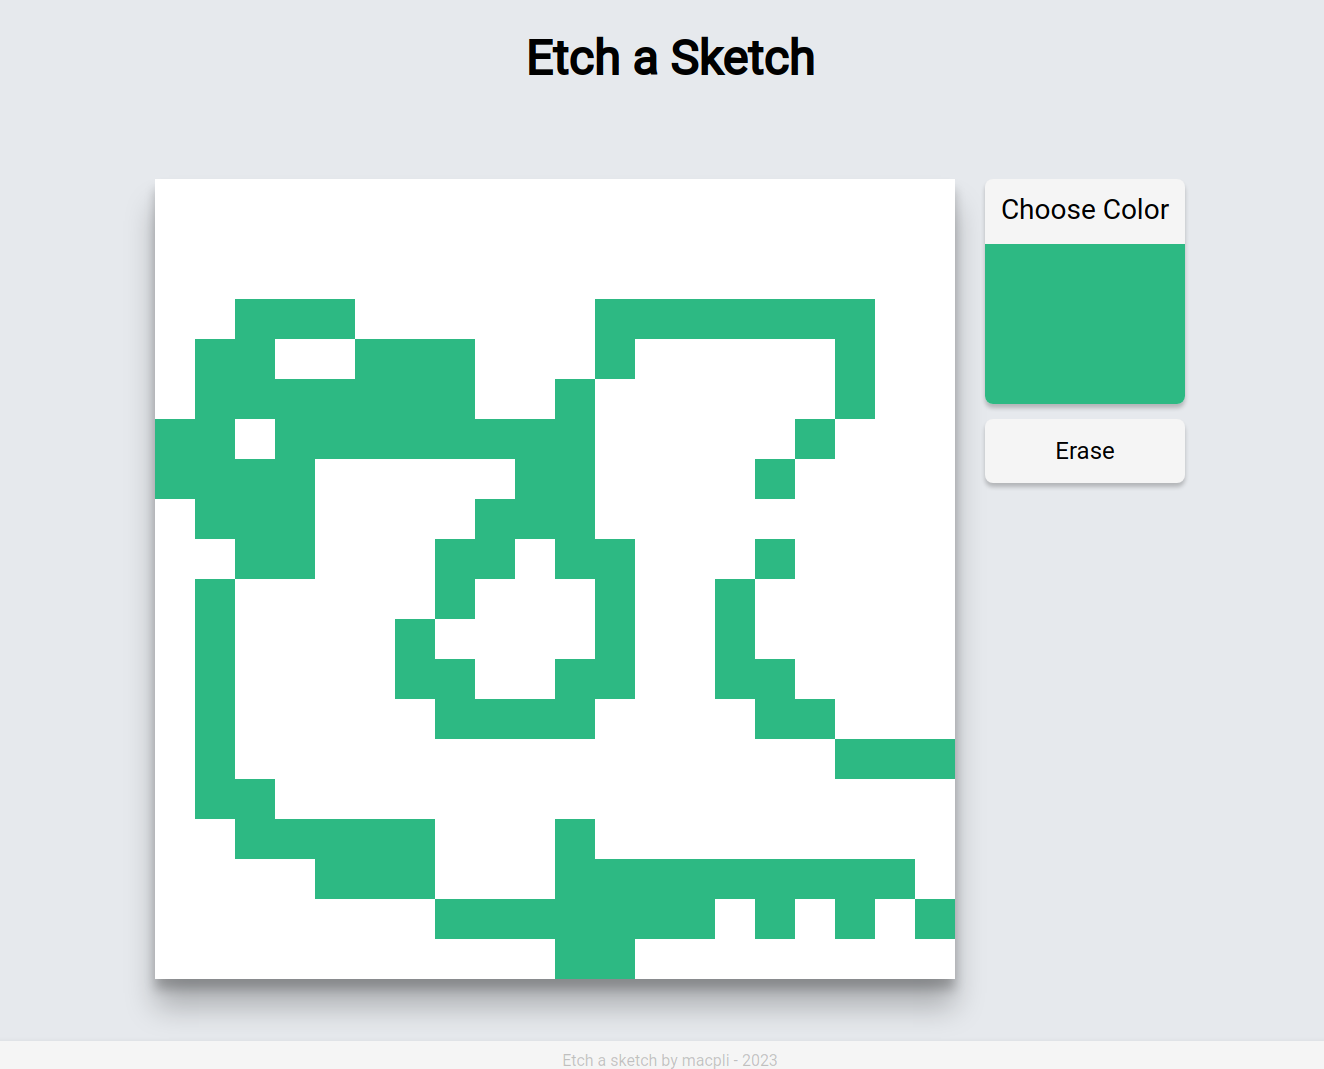
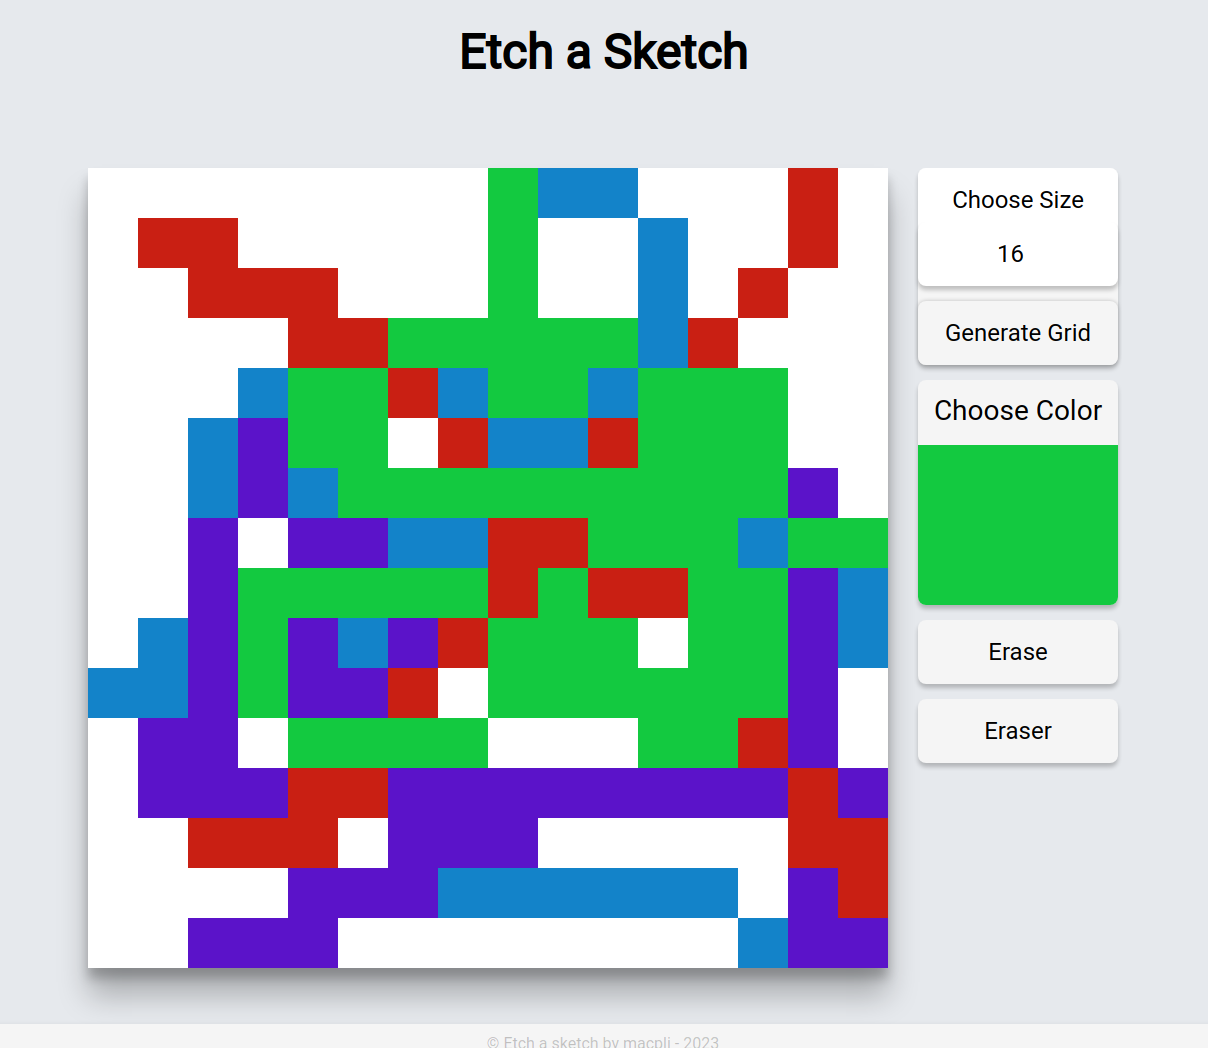
Update readme, fix typo

diff --git a/index.html b/index.html
@@ -27,7 +27,7 @@
                 <div class="sizePicker">
                     <label for="number" class="btn label">Choose Size</label>
                     <input type="number" id="cellCount" value="16" max="100" min="1">
-                    <button class="btn" onclick="generateGrid()">Generate Grid</button>
+                    <button class="btn" onclick="generateGrid()">Generate Canvas</button>
                 </div>
                 <div class="colorCard">
                     <div class="colorCardTxt">Choose Color</div>

diff --git a/README.md b/README.md
@@ -8,6 +8,9 @@ Well-known Etch A Sketch drawing toy replicated in JavaScript.
 # Rules:
 - Choose a color
 - Hoover over the board to paint
+- Choose eraser to erase colored cells
+- Choose erase to erase the canvas
+- Choose the size of the canvas (1-100 x by x)
 - Based on real life game:  Etch A Sketch
 
 # State:
